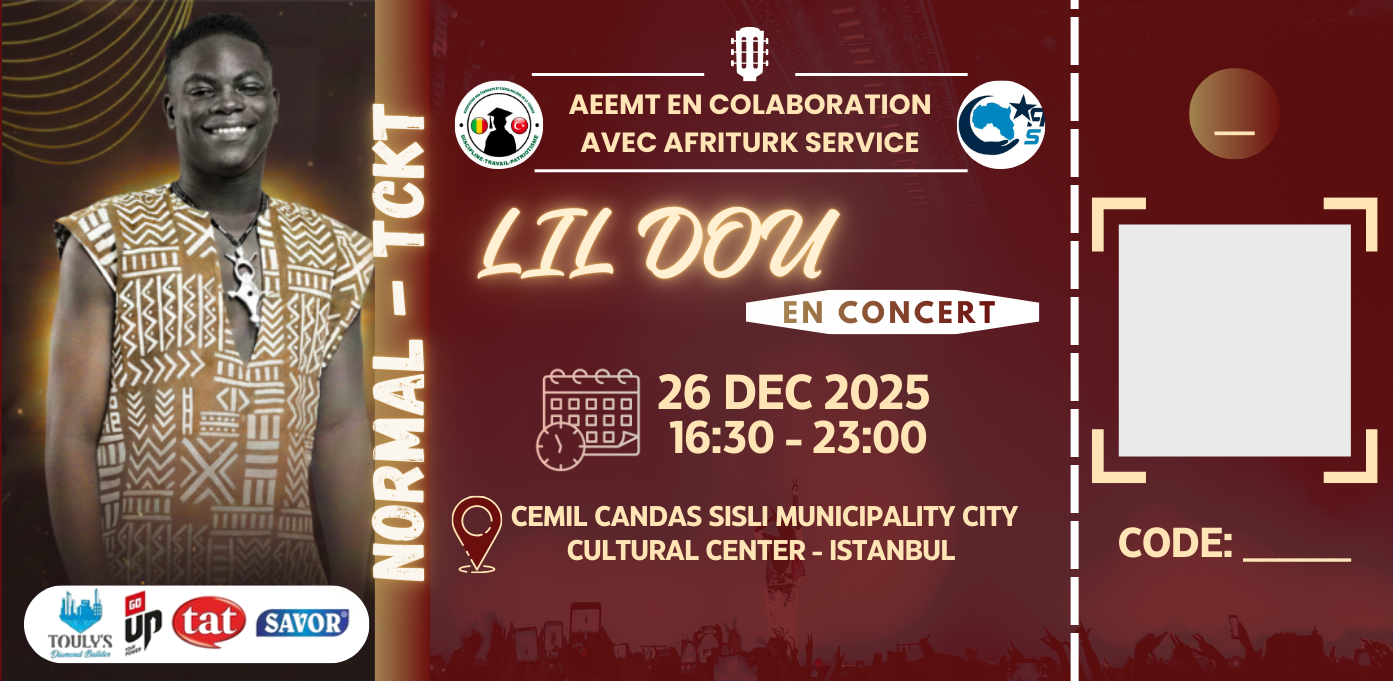
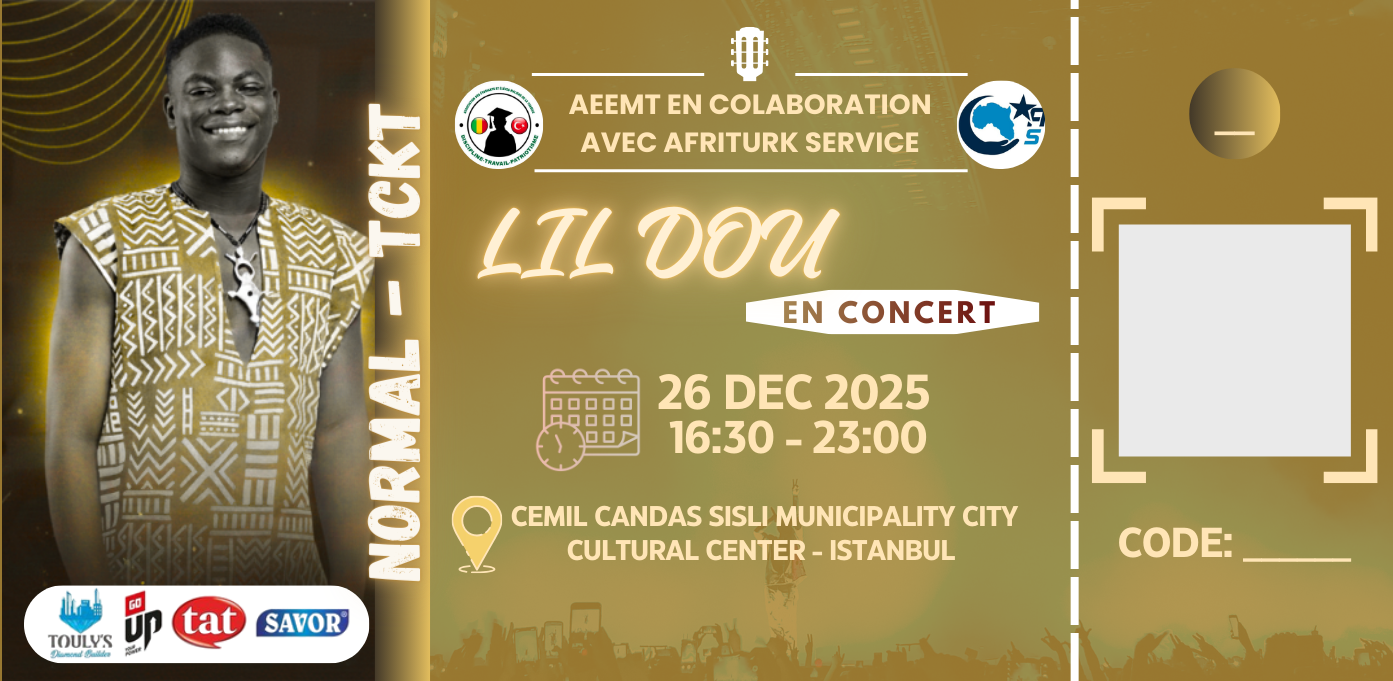
fix: update ticket validation alert styling and remove unused image assets

diff --git a/public/index.html b/public/index.html
@@ -225,14 +225,19 @@
           const data = await response.json();
 
           const date = new Date(data.usedAt || new Date()).toLocaleString();
+          
+          // Déterminer si c'est un ticket déjà utilisé
+          const isAlreadyUsed = data.message && data.message.includes("déjà utilisé");
+          const alertClass = isAlreadyUsed ? "alert-danger" : "alert-success";
+          
           resultDiv.innerHTML = `
-            <div class="alert alert-success w-100">
+            <div class="alert ${alertClass} w-100">
                 <h4> ${
                   data.message || "Billet validé!"
                 }</h4>
                 <hr>
-                <p>Code: <strong>${code}</strong></p>
-                <p>Validé le: <strong>${date}</strong></p>
+                <p><b>Code: </b><strong>${code}</strong></p>
+                <p><b>Validé le: </b><strong>${date}</strong></p>
             </div>`;
 
           // Effacer le champ après validation
